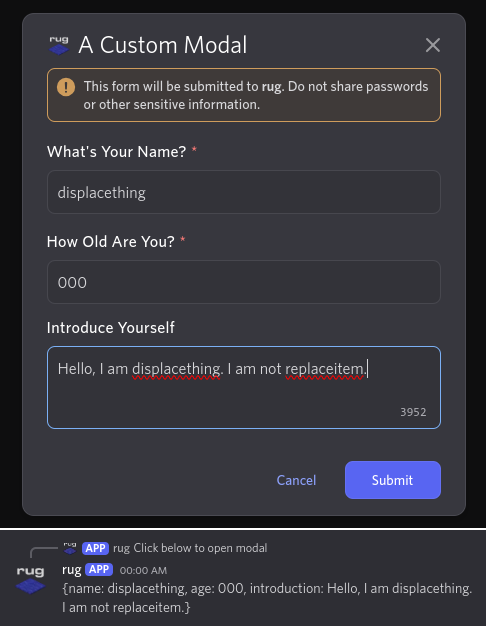
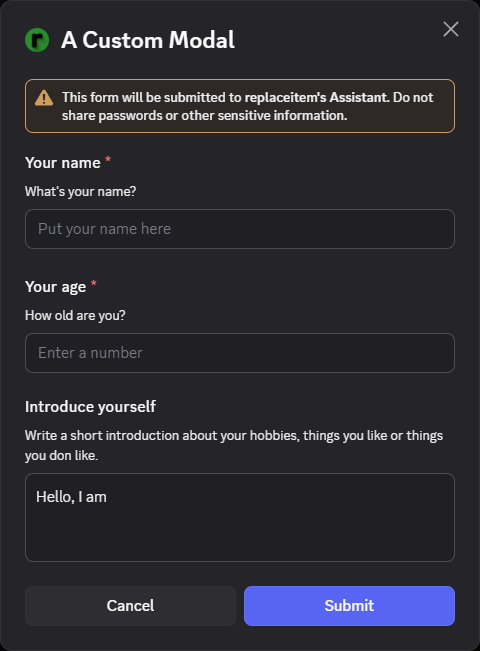
Updated to JDA 6.1.1

diff --git a/src/main/java/net/replaceitem/discarpet/script/schema/schemas/components/SelectMenuSchema.java b/src/main/java/net/replaceitem/discarpet/script/schema/schemas/components/SelectMenuSchema.java
@@ -1,12 +1,14 @@
 package net.replaceitem.discarpet.script.schema.schemas.components;
 
 import carpet.script.Context;
+import net.dv8tion.jda.api.components.Component.Type;
+import net.dv8tion.jda.api.components.selections.EntitySelectMenu;
+import net.dv8tion.jda.api.components.selections.EntitySelectMenu.Builder;
+import net.dv8tion.jda.api.components.selections.EntitySelectMenu.SelectTarget;
+import net.dv8tion.jda.api.components.selections.SelectMenu;
+import net.dv8tion.jda.api.components.selections.SelectOption;
+import net.dv8tion.jda.api.components.selections.StringSelectMenu;
 import net.dv8tion.jda.api.entities.channel.ChannelType;
-import net.dv8tion.jda.api.interactions.components.Component;
-import net.dv8tion.jda.api.interactions.components.selections.EntitySelectMenu;
-import net.dv8tion.jda.api.interactions.components.selections.SelectMenu;
-import net.dv8tion.jda.api.interactions.components.selections.SelectOption;
-import net.dv8tion.jda.api.interactions.components.selections.StringSelectMenu;
 import net.replaceitem.discarpet.script.schema.OptionalField;
 import net.replaceitem.discarpet.script.schema.SchemaClass;
 import net.replaceitem.discarpet.script.schema.SchemaConstructor;
@@ -18,7 +20,7 @@ import java.util.List;
 @SchemaClass(name = "select_menu")
 public class SelectMenuSchema implements SchemaConstructor<SelectMenu> {
     String id;
-    Component.Type component;
+    Type component;
     @OptionalField
     Boolean disabled = false;
     @OptionalField
@@ -36,14 +38,14 @@ public class SelectMenuSchema implements SchemaConstructor<SelectMenu> {
     public SelectMenu construct(Context context) {
         SelectMenu.Builder<?,?> builder = switch (component) {
             case STRING_SELECT -> StringSelectMenu.create(id).addOptions(options);
-            case USER_SELECT -> EntitySelectMenu.create(id, EntitySelectMenu.SelectTarget.USER);
+            case USER_SELECT -> EntitySelectMenu.create(id, SelectTarget.USER);
             case CHANNEL_SELECT -> {
-                EntitySelectMenu.Builder channelBuilder = EntitySelectMenu.create(id, EntitySelectMenu.SelectTarget.CHANNEL);
+                Builder channelBuilder = EntitySelectMenu.create(id, SelectTarget.CHANNEL);
                 if(channel_types != null) channelBuilder.setChannelTypes(channel_types);
                 yield channelBuilder;
             }
-            case ROLE_SELECT -> EntitySelectMenu.create(id, EntitySelectMenu.SelectTarget.ROLE);
-            case MENTIONABLE_SELECT -> EntitySelectMenu.create(id, EnumSet.of(EntitySelectMenu.SelectTarget.USER, EntitySelectMenu.SelectTarget.ROLE));
+            case ROLE_SELECT -> EntitySelectMenu.create(id, SelectTarget.ROLE);
+            case MENTIONABLE_SELECT -> EntitySelectMenu.create(id, EnumSet.of(SelectTarget.USER, SelectTarget.ROLE));
             default -> throw new IllegalArgumentException("ComponentSchema redirected to SelectMenuSchema, but type is invalid for select menu. Report this to discarpet.");
         };
         builder.setDisabled(disabled).setRequiredRange(min, max);

diff --git a/src/main/java/net/replaceitem/discarpet/script/schema/schemas/MessageContentSchema.java b/src/main/java/net/replaceitem/discarpet/script/schema/schemas/MessageContentSchema.java
@@ -1,13 +1,15 @@
 package net.replaceitem.discarpet.script.schema.schemas;
 
+import carpet.script.Context;
 import carpet.script.exception.InternalExpressionException;
 import carpet.script.value.MapValue;
 import carpet.script.value.Value;
+import net.dv8tion.jda.api.components.Component;
+import net.dv8tion.jda.api.components.MessageTopLevelComponent;
+import net.dv8tion.jda.api.components.label.LabelChildComponent;
 import net.dv8tion.jda.api.entities.Message;
 import net.dv8tion.jda.api.entities.MessageReference;
 import net.dv8tion.jda.api.entities.sticker.Sticker;
-import net.dv8tion.jda.api.interactions.components.ActionRow;
-import net.dv8tion.jda.api.interactions.components.ItemComponent;
 import net.dv8tion.jda.api.requests.RestAction;
 import net.dv8tion.jda.api.requests.restaction.MessageCreateAction;
 import net.dv8tion.jda.api.requests.restaction.WebhookMessageCreateAction;
@@ -25,6 +27,7 @@ import net.replaceitem.discarpet.script.values.StickerValue;
 import org.jetbrains.annotations.Nullable;
 
 import java.util.List;
+import java.util.function.Consumer;
 import java.util.function.Function;
 import java.util.stream.Stream;
 
@@ -39,7 +42,7 @@ public class MessageContentSchema implements DirectParsable {
     @OptionalField
     List<EmbedSchema.EmbedWithAttachments> embeds = List.of();
     @OptionalField
-    List<List<ItemComponent>> components = List.of();
+    List<Component> components = List.of();
     @OptionalField @Nullable
     AllowedMentionsSchema allowed_mentions;
     @OptionalField @Nullable
@@ -81,7 +84,15 @@ public class MessageContentSchema implements DirectParsable {
 
         builder.setEmbeds(embeds.stream().map(AttachmentSchema.WithAttachments::getData).toList());
 
-        builder.setComponents(components.stream().map(ActionRow::of).toList());
+
+        List<MessageTopLevelComponent> messageComponents = this.components.stream().mapMulti((Component component, Consumer<MessageTopLevelComponent> consumer) -> {
+            if (!(component instanceof MessageTopLevelComponent actionRowChildComponent)) {
+                var additionalInfo = component instanceof LabelChildComponent ? " Consider wrapping it inside a label." : "";
+                throw new InternalExpressionException("Components of type " + component.getType().toString().toLowerCase() + " cannot be used inside a message." + additionalInfo);
+            }
+            consumer.accept(actionRowChildComponent);
+        }).toList();
+        builder.setComponents(messageComponents);
 
         if(allowed_mentions != null) allowed_mentions.apply(builder);
 
@@ -140,7 +151,7 @@ public class MessageContentSchema implements DirectParsable {
     }
 
     @Override
-    public boolean tryParseDirectly(Value value) {
+    public boolean tryParseDirectly(Value value, Context context) {
         if(!(value instanceof MapValue)) {
             this.content = value.getString();
             return true;

diff --git a/src/main/java/net/replaceitem/discarpet/script/schema/schemas/components/ComponentSchema.java b/src/main/java/net/replaceitem/discarpet/script/schema/schemas/components/ComponentSchema.java
@@ -1,26 +1,44 @@
 package net.replaceitem.discarpet.script.schema.schemas.components;
 
+import carpet.script.Context;
 import carpet.script.exception.InternalExpressionException;
-import net.dv8tion.jda.api.interactions.components.Component;
-import net.dv8tion.jda.api.interactions.components.ItemComponent;
-import net.dv8tion.jda.api.interactions.components.buttons.Button;
-import net.dv8tion.jda.api.interactions.components.selections.SelectMenu;
-import net.dv8tion.jda.api.interactions.components.text.TextInput;
-import net.replaceitem.discarpet.script.schema.SchemaClass;
+import carpet.script.value.ListValue;
+import carpet.script.value.Value;
+import net.dv8tion.jda.api.components.Component;
+import net.dv8tion.jda.api.components.Component.Type;
+import net.dv8tion.jda.api.components.actionrow.ActionRow;
+import net.dv8tion.jda.api.components.buttons.Button;
+import net.dv8tion.jda.api.components.label.Label;
+import net.dv8tion.jda.api.components.selections.SelectMenu;
+import net.dv8tion.jda.api.components.textinput.TextInput;
+import net.replaceitem.discarpet.script.schema.DirectParsable;
 import net.replaceitem.discarpet.script.schema.Redirector;
+import net.replaceitem.discarpet.script.schema.SchemaClass;
 
 
 @SchemaClass(name = "component")
-public class ComponentSchema implements Redirector<ItemComponent> {
-    Component.Type component;
+public class ComponentSchema implements Redirector<Component>, DirectParsable {
+    Type component;
 
     @Override
-    public Class<? extends ItemComponent> redirect() {
+    public Class<? extends Component> redirect() {
         return switch (component) {
+            case ACTION_ROW -> ActionRow.class;
             case BUTTON -> Button.class;
             case TEXT_INPUT -> TextInput.class;
             case STRING_SELECT, USER_SELECT, ROLE_SELECT, CHANNEL_SELECT, MENTIONABLE_SELECT -> SelectMenu.class;
+            case LABEL -> Label.class;
             default -> throw new InternalExpressionException("Unsupported value for 'component': " + component.name());
         };
+    }
+
+
+    @Override
+    public boolean tryParseDirectly(Value value, Context context) {
+        if(value instanceof ListValue) {
+            this.component = Type.ACTION_ROW;
+            return true;
+        }
+        return false;
     }
 }

diff --git a/src/main/java/net/replaceitem/discarpet/script/schema/schemas/components/ActionRowSchema.java b/src/main/java/net/replaceitem/discarpet/script/schema/schemas/components/ActionRowSchema.java
@@ -1,0 +1,47 @@
+package net.replaceitem.discarpet.script.schema.schemas.components;
+
+import carpet.script.Context;
+import carpet.script.exception.InternalExpressionException;
+import carpet.script.value.ListValue;
+import carpet.script.value.Value;
+import com.google.common.collect.Streams;
+import net.dv8tion.jda.api.components.Component;
+import net.dv8tion.jda.api.components.actionrow.ActionRow;
+import net.dv8tion.jda.api.components.actionrow.ActionRowChildComponent;
+import net.replaceitem.discarpet.script.schema.DirectParsable;
+import net.replaceitem.discarpet.script.schema.Parser;
+import net.replaceitem.discarpet.script.schema.SchemaClass;
+import net.replaceitem.discarpet.script.schema.SchemaConstructor;
+
+import java.util.List;
+import java.util.function.Consumer;
+
+@SchemaClass(name = "action_row")
+public class ActionRowSchema implements SchemaConstructor<ActionRow>, DirectParsable {
+    List<Component> components;
+
+    @Override
+    public ActionRow construct(Context context) {
+        List<ActionRowChildComponent> actionRowChildren = this.components.stream().mapMulti((Component component, Consumer<ActionRowChildComponent> consumer) -> {
+            if (!(component instanceof ActionRowChildComponent actionRowChildComponent))
+                throw new InternalExpressionException("Components of type " + component.getType().toString().toLowerCase() + " cannot be used inside an action_row.");
+            consumer.accept(actionRowChildComponent);
+        }).toList();
+        return ActionRow.of(actionRowChildren);
+    }
+
+    @Override
+    public boolean tryParseDirectly(Value value, Context context) {
+        if(value instanceof ListValue listValue) {
+            this.components = Streams.mapWithIndex(listValue.getItems().stream(), (from, index) -> {
+                try {
+                    return Parser.parseType(context, from, Component.class);
+                } catch (Exception e) {
+                    throw new InternalExpressionException("Could not parse action row item " + index + " :\n" + e.getMessage());
+                }
+            }).toList();
+            return true;
+        }
+        return false;
+    }
+}

diff --git a/src/main/java/net/replaceitem/discarpet/script/schema/schemas/components/ModalSchema.java b/src/main/java/net/replaceitem/discarpet/script/schema/schemas/components/ModalSchema.java
@@ -1,23 +1,33 @@
 package net.replaceitem.discarpet.script.schema.schemas.components;
 
 import carpet.script.Context;
-import net.dv8tion.jda.api.interactions.components.ActionRow;
-import net.dv8tion.jda.api.interactions.components.ItemComponent;
-import net.dv8tion.jda.api.interactions.modals.Modal;
+import carpet.script.exception.InternalExpressionException;
+import net.dv8tion.jda.api.components.Component;
+import net.dv8tion.jda.api.components.ModalTopLevelComponent;
+import net.dv8tion.jda.api.components.label.LabelChildComponent;
+import net.dv8tion.jda.api.modals.Modal;
 import net.replaceitem.discarpet.script.schema.SchemaClass;
 import net.replaceitem.discarpet.script.schema.SchemaConstructor;
 
 import java.util.List;
+import java.util.function.Consumer;
 
 @SchemaClass(name = "modal")
 public class ModalSchema implements SchemaConstructor<Modal> {
     
     String id;
     String title;
-    List<List<ItemComponent>> components;
+    List<Component> components;
 
     @Override
     public Modal construct(Context context) {
-        return Modal.create(id, title).addComponents(components.stream().map(ActionRow::of).toList()).build();
+        List<ModalTopLevelComponent> modalComponents = this.components.stream().mapMulti((Component component, Consumer<ModalTopLevelComponent> consumer) -> {
+            if (!(component instanceof ModalTopLevelComponent modalTopLevelComponent)) {
+                var additionalInfo = component instanceof LabelChildComponent ? " Consider wrapping it inside a label." : "";
+                throw new InternalExpressionException("Components of type " + component.getType().toString().toLowerCase() + " cannot be used inside a modal." + additionalInfo);
+            }
+            consumer.accept(modalTopLevelComponent);
+        }).toList();
+        return Modal.create(id, title).addComponents(modalComponents).build();
     }
 }

diff --git a/src/main/java/net/replaceitem/discarpet/script/schema/schemas/components/TextInputSchema.java b/src/main/java/net/replaceitem/discarpet/script/schema/schemas/components/TextInputSchema.java
@@ -1,8 +1,9 @@
 package net.replaceitem.discarpet.script.schema.schemas.components;
 
 import carpet.script.Context;
-import net.dv8tion.jda.api.interactions.components.text.TextInput;
-import net.dv8tion.jda.api.interactions.components.text.TextInputStyle;
+import net.dv8tion.jda.api.components.textinput.TextInput;
+import net.dv8tion.jda.api.components.textinput.TextInput.Builder;
+import net.dv8tion.jda.api.components.textinput.TextInputStyle;
 import net.replaceitem.discarpet.script.schema.OptionalField;
 import net.replaceitem.discarpet.script.schema.SchemaClass;
 import net.replaceitem.discarpet.script.schema.SchemaConstructor;
@@ -13,7 +14,6 @@ public class TextInputSchema implements SchemaConstructor<TextInput> {
     
     String id;
     TextInputStyle style;
-    String label;
     @OptionalField @Nullable
     Integer min_length;
     @OptionalField @Nullable
@@ -27,7 +27,7 @@ public class TextInputSchema implements SchemaConstructor<TextInput> {
     
     @Override
     public TextInput construct(Context context) {
-        TextInput.Builder builder = TextInput.create(id, label, style);
+        Builder builder = TextInput.create(id, style);
         if(min_length != null) builder.setMinLength(min_length);
         if(max_length != null) builder.setMaxLength(max_length);
         builder.setRequired(required);

diff --git a/src/main/java/net/replaceitem/discarpet/script/schema/schemas/components/LabelSchema.java b/src/main/java/net/replaceitem/discarpet/script/schema/schemas/components/LabelSchema.java
@@ -1,0 +1,26 @@
+package net.replaceitem.discarpet.script.schema.schemas.components;
+
+import carpet.script.Context;
+import carpet.script.exception.InternalExpressionException;
+import net.dv8tion.jda.api.components.Component;
+import net.dv8tion.jda.api.components.label.Label;
+import net.dv8tion.jda.api.components.label.LabelChildComponent;
+import net.replaceitem.discarpet.script.schema.OptionalField;
+import net.replaceitem.discarpet.script.schema.SchemaClass;
+import net.replaceitem.discarpet.script.schema.SchemaConstructor;
+import org.jetbrains.annotations.Nullable;
+
+@SchemaClass(name = "label")
+public class LabelSchema implements SchemaConstructor<Label> {
+    
+    String label;
+    @OptionalField @Nullable
+    String description;
+    Component child;
+
+    @Override
+    public Label construct(Context context) {
+        if(!(child instanceof LabelChildComponent labelChildComponent)) throw new InternalExpressionException("Components of type " + child.getType().toString().toLowerCase() + " cannot be used inside a label.");
+        return Label.of(this.label, this.description, labelChildComponent);
+    }
+}

diff --git a/src/main/java/net/replaceitem/discarpet/script/schema/Parser.java b/src/main/java/net/replaceitem/discarpet/script/schema/Parser.java
@@ -134,14 +134,13 @@ public class Parser {
     
     public static <T> T parseSchemaType(Context context, Value value, T object, Class<T> schemaClass, String name) {
         try {
-            if(object instanceof DirectParsable directParsable) {
-                if(directParsable.tryParseDirectly(value)) {
-                    return object;
-                }
+            T parsedObject;
+            if (object instanceof DirectParsable directParsable && directParsable.tryParseDirectly(value, context)) {
+                parsedObject = object;
+            } else {
+                parsedObject = schemaClass.cast(parseClass(context, value, schemaClass));
             }
 
-            T parsedObject = schemaClass.cast(parseClass(context, value, schemaClass));
-            
             if(Redirector.class.isAssignableFrom(schemaClass)) {
                 Class<? extends T> redirectedClass = ((Redirector<T>) parsedObject).redirect();
                 return parseType(context, value, redirectedClass);

diff --git a/src/main/java/net/replaceitem/discarpet/script/values/interactions/SelectMenuInteractionValue.java b/src/main/java/net/replaceitem/discarpet/script/values/interactions/SelectMenuInteractionValue.java
@@ -4,11 +4,11 @@ import carpet.script.value.ListValue;
 import carpet.script.value.NumericValue;
 import carpet.script.value.StringValue;
 import carpet.script.value.Value;
+import net.dv8tion.jda.api.components.selections.EntitySelectMenu;
+import net.dv8tion.jda.api.components.selections.SelectOption;
+import net.dv8tion.jda.api.components.selections.StringSelectMenu;
 import net.dv8tion.jda.api.entities.ISnowflake;
 import net.dv8tion.jda.api.events.interaction.component.GenericSelectMenuInteractionEvent;
-import net.dv8tion.jda.api.interactions.components.selections.EntitySelectMenu;
-import net.dv8tion.jda.api.interactions.components.selections.SelectOption;
-import net.dv8tion.jda.api.interactions.components.selections.StringSelectMenu;
 import net.replaceitem.discarpet.script.util.ValueConversions;
 import net.replaceitem.discarpet.script.util.ValueUtil;
 import net.replaceitem.discarpet.script.values.MessageValue;

diff --git a/src/main/java/net/replaceitem/discarpet/script/util/Registration.java b/src/main/java/net/replaceitem/discarpet/script/util/Registration.java
@@ -73,12 +73,14 @@ public class  Registration {
     public static void registerSchemas() {
         Parser.registerSchema(ComponentSchema.class);
         
+        Parser.registerSchema(ActionRowSchema.class);
         Parser.registerSchema(AttachmentSchema.class);
         Parser.registerSchema(ButtonSchema.class);
         Parser.registerSchema(ColorSchema.class);
         Parser.registerSchema(EmojiSchema.class);
         Parser.registerSchema(FileSchema.class);
         Parser.registerSchema(EmbedSchema.class);
+        Parser.registerSchema(LabelSchema.class);
         Parser.registerSchema(MessageContextMenuBuilderSchema.class);
         Parser.registerSchema(ModalSchema.class);
         Parser.registerSchema(SelectMenuOptionSchema.class);

diff --git a/src/main/java/net/replaceitem/discarpet/script/schema/schemas/components/ButtonSchema.java b/src/main/java/net/replaceitem/discarpet/script/schema/schemas/components/ButtonSchema.java
@@ -1,9 +1,9 @@
 package net.replaceitem.discarpet.script.schema.schemas.components;
 
 import carpet.script.Context;
+import net.dv8tion.jda.api.components.buttons.Button;
+import net.dv8tion.jda.api.components.buttons.ButtonStyle;
 import net.dv8tion.jda.api.entities.emoji.Emoji;
-import net.dv8tion.jda.api.interactions.components.buttons.Button;
-import net.dv8tion.jda.api.interactions.components.buttons.ButtonStyle;
 import net.replaceitem.discarpet.script.schema.OptionalField;
 import net.replaceitem.discarpet.script.schema.SchemaClass;
 import net.replaceitem.discarpet.script.schema.SchemaConstructor;

diff --git a/src/main/java/net/replaceitem/discarpet/script/schema/schemas/embeds/EmbedAuthorSchema.java b/src/main/java/net/replaceitem/discarpet/script/schema/schemas/embeds/EmbedAuthorSchema.java
@@ -1,5 +1,6 @@
 package net.replaceitem.discarpet.script.schema.schemas.embeds;
 
+import carpet.script.Context;
 import carpet.script.value.MapValue;
 import carpet.script.value.Value;
 import net.dv8tion.jda.api.EmbedBuilder;
@@ -35,7 +36,7 @@ public class EmbedAuthorSchema implements DirectParsable {
     }
 
     @Override
-    public boolean tryParseDirectly(Value value) {
+    public boolean tryParseDirectly(Value value, Context context) {
         if(value instanceof UserValue userValue) {
             User user = userValue.getDelegate();
             this.name = user.getName();
